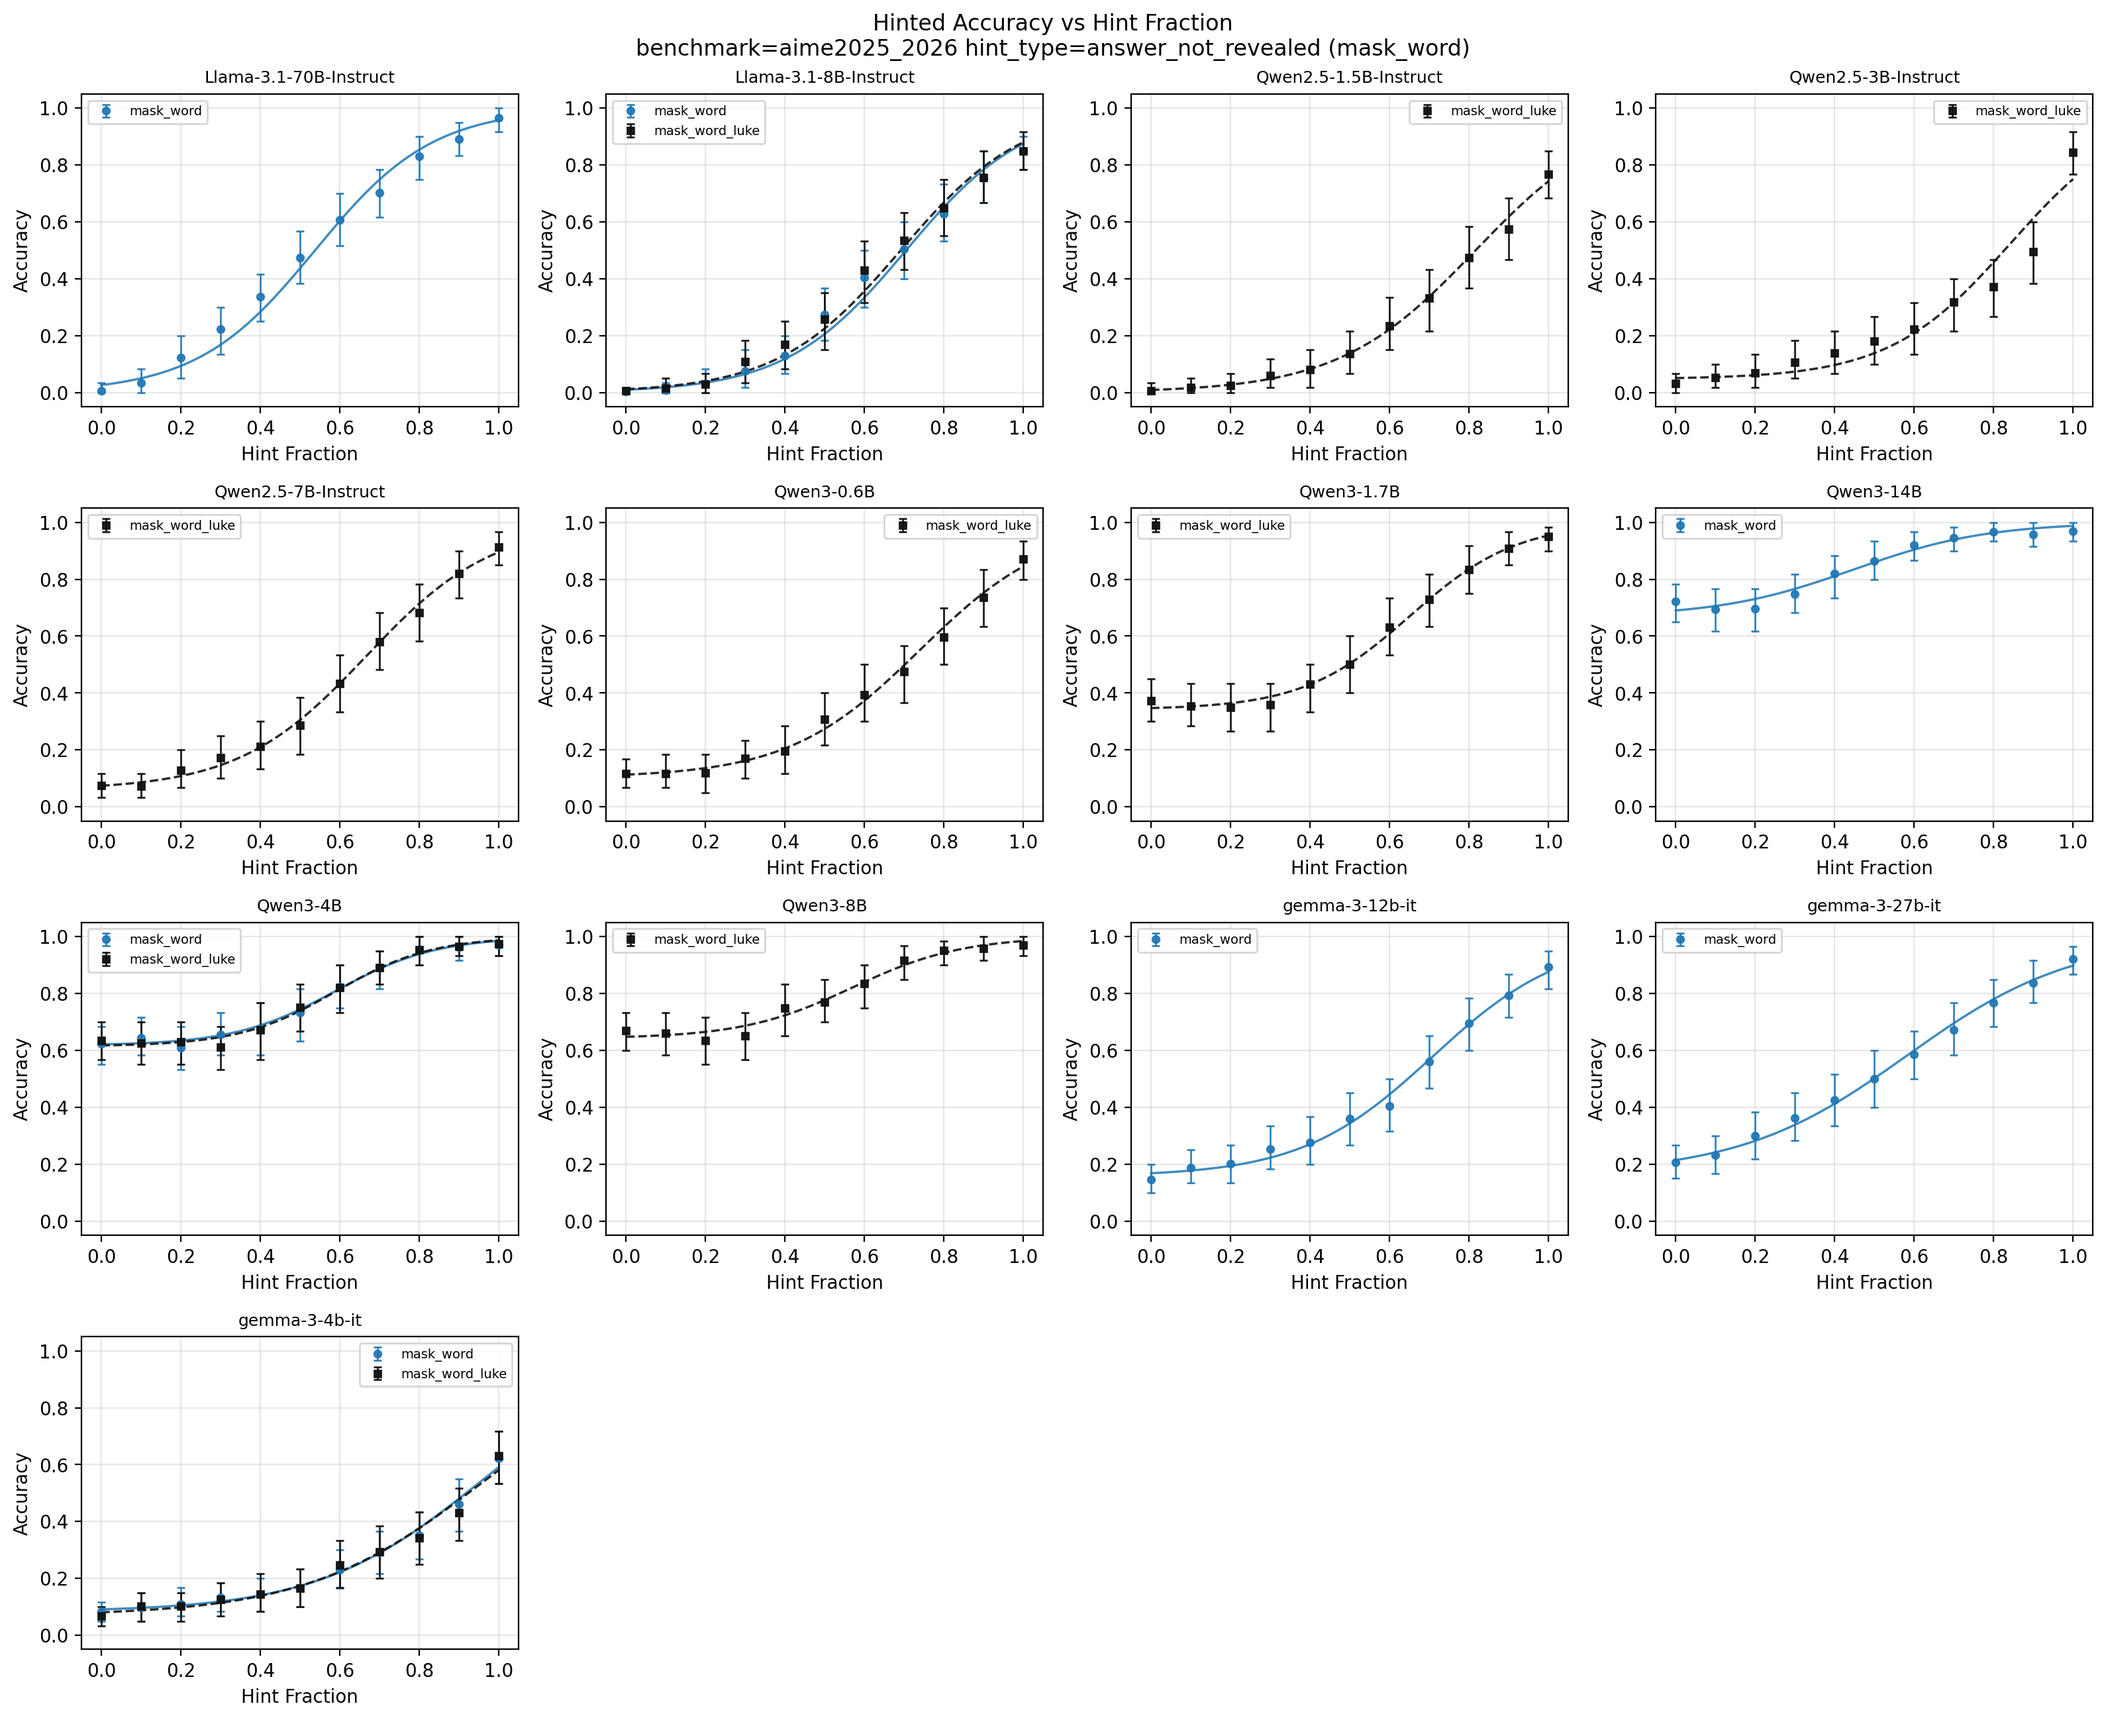
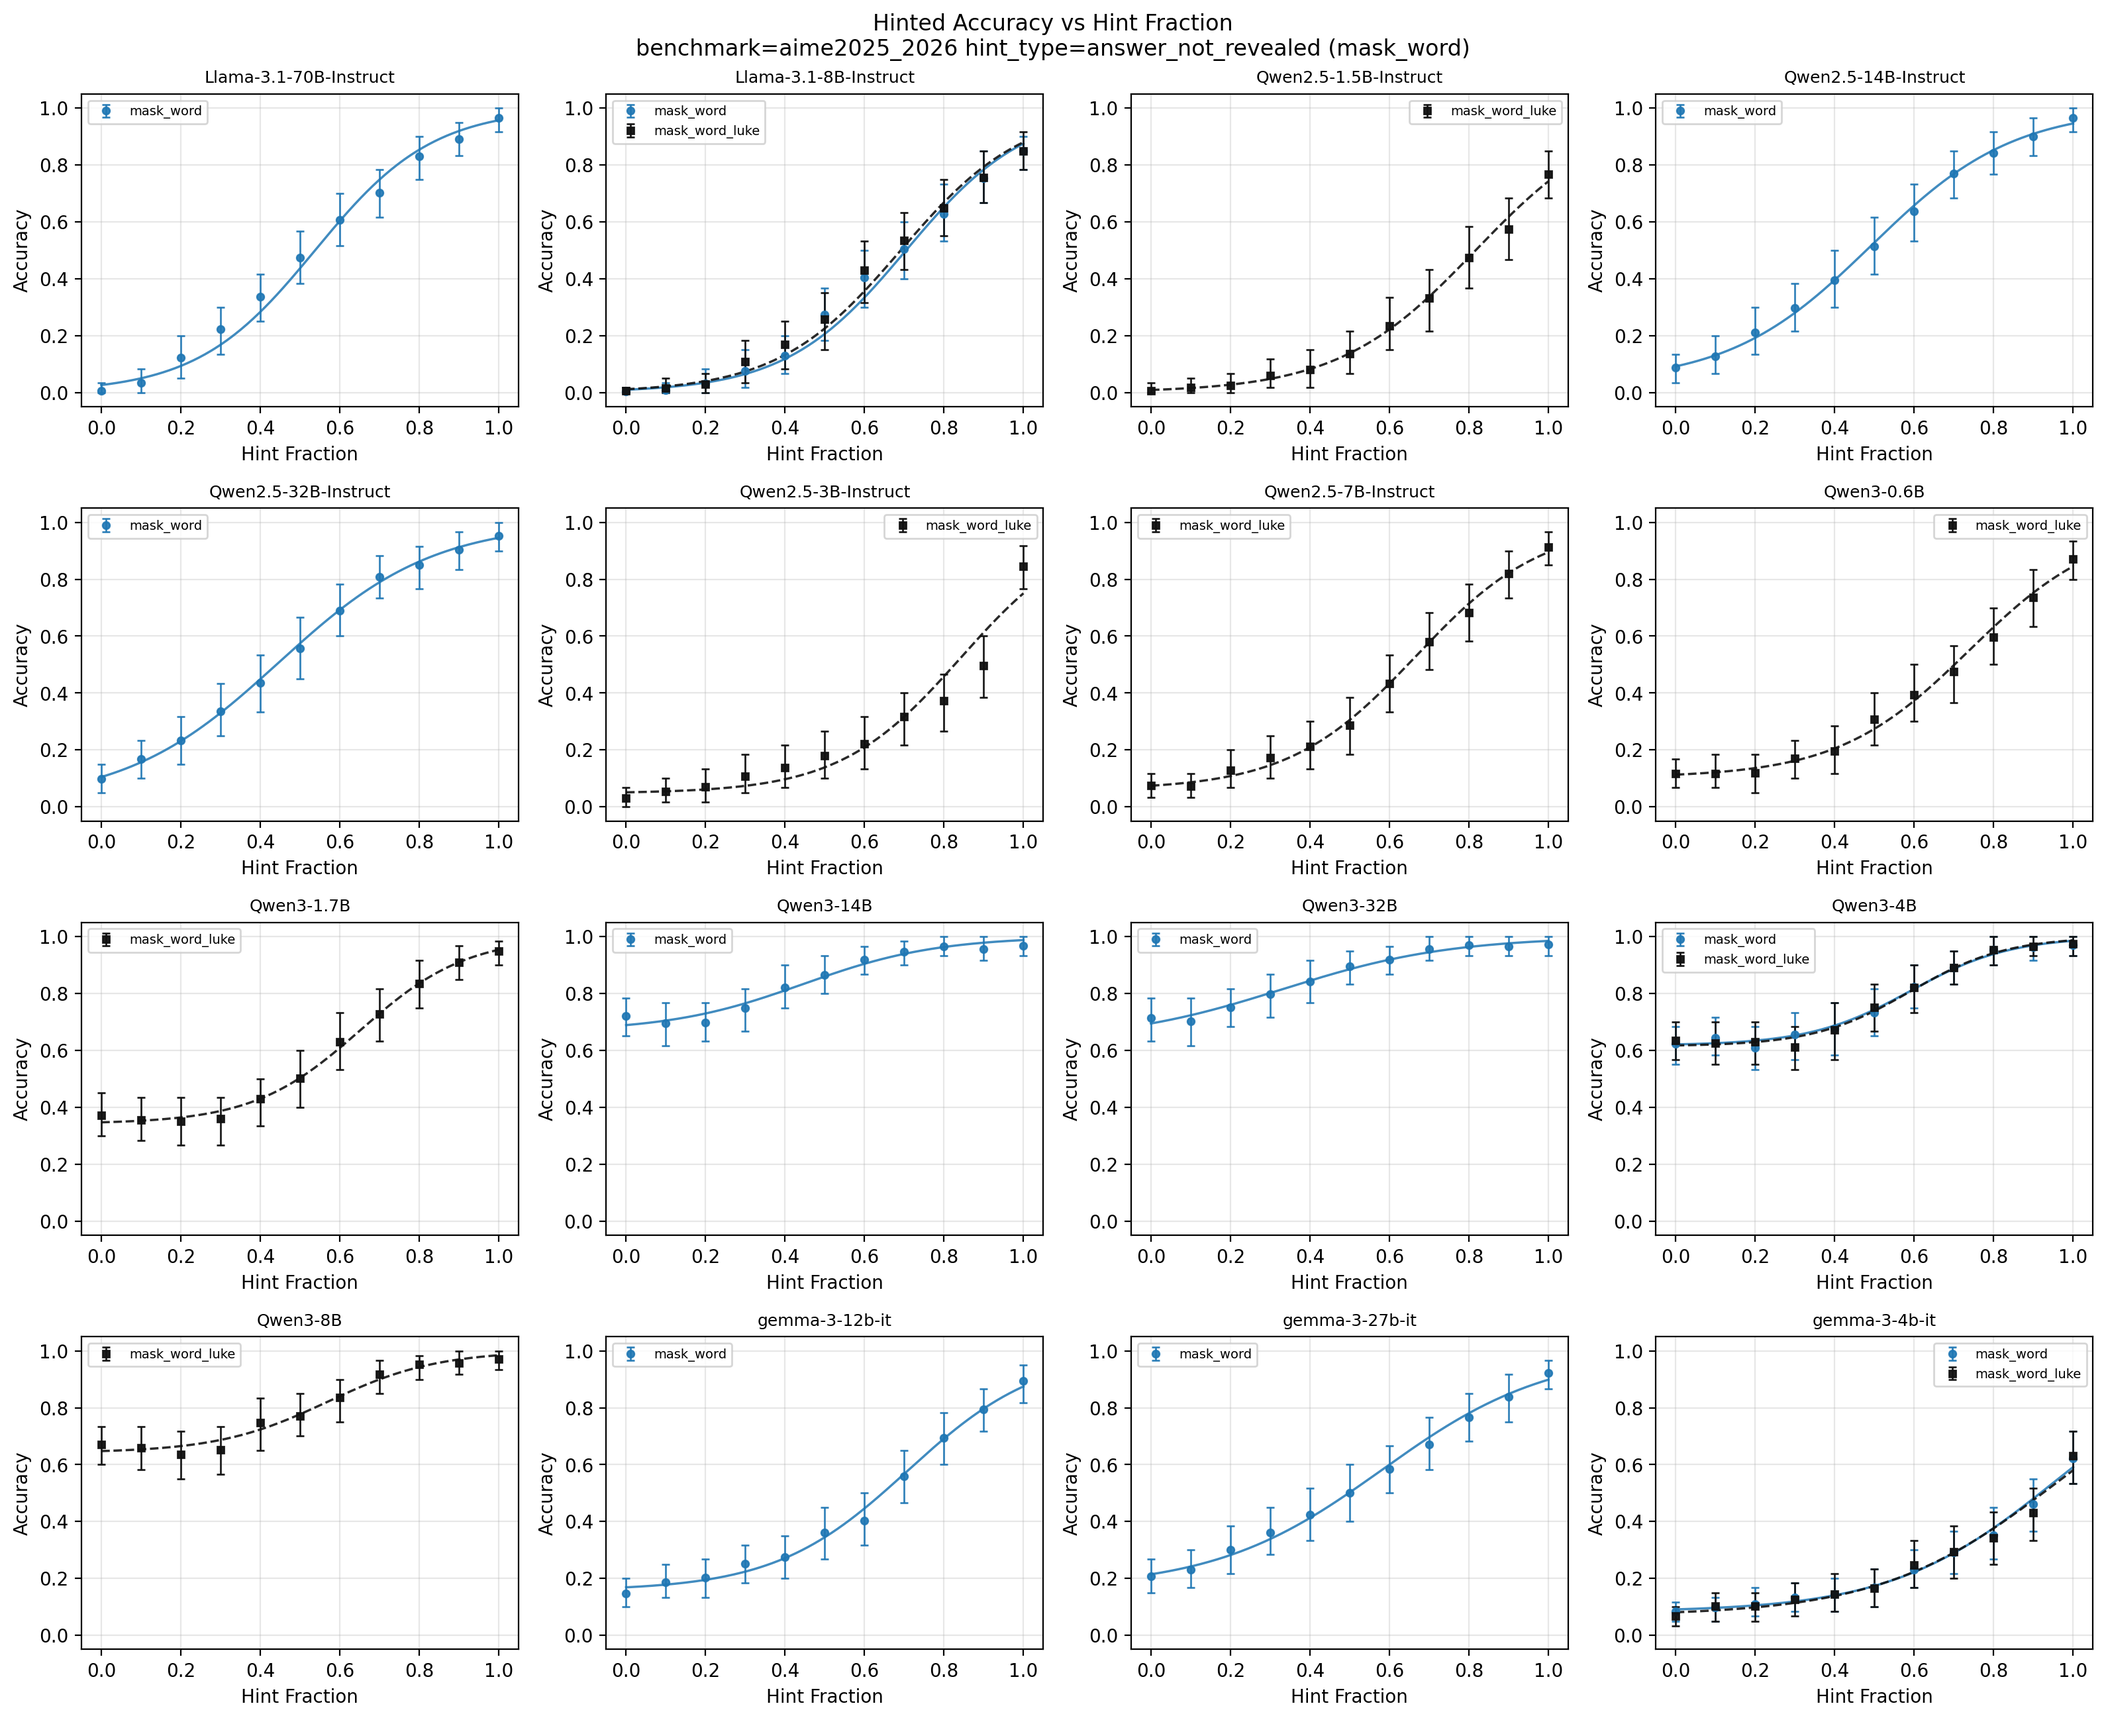
full mask/truncate word results and plots

diff --git a/runs/plot_hinted_accuracy_vs_hint.py b/runs/plot_hinted_accuracy_vs_hint.py
@@ -14,6 +14,12 @@ from scipy.optimize import curve_fit
 DATA_ROOT = Path("data")
 PLOTS_ROOT = Path("plots/accuracy_vs_hint")
 MASK_WORD_RESULTS_WITH_CI_PATH = DATA_ROOT / "results_with_ci_mask_word.json"
+TRUNCATE_WORD_RESULTS_WITH_CI_PATH = DATA_ROOT / "results_with_ci_truncate_word.json"
+EXTERNAL_RESULTS_WITH_CI_PATHS = {
+    "mask_word": MASK_WORD_RESULTS_WITH_CI_PATH,
+    "truncate_word": TRUNCATE_WORD_RESULTS_WITH_CI_PATH,
+}
+
 N_BOOTSTRAP = 5000
 RANDOM_SEED = 0
 EXPECTED_FRACTIONS = [i / 10 for i in range(11)]
@@ -75,16 +81,16 @@ def _discover_models(benchmark: str) -> list[str]:
     return sorted(path.name for path in benchmark_dir.iterdir() if path.is_dir())
 
 
-def _load_external_mask_word_results() -> dict[str, dict[float, dict[str, float]]] | None:
-    if not MASK_WORD_RESULTS_WITH_CI_PATH.exists():
+def _load_external_results_with_ci(
+    path: Path,
+) -> dict[str, dict[float, dict[str, float]]] | None:
+    if not path.exists():
         return None
 
-    with open(MASK_WORD_RESULTS_WITH_CI_PATH, "r", encoding="utf-8") as f:
+    with open(path, "r", encoding="utf-8") as f:
         payload = json.load(f)
     if not isinstance(payload, dict):
-        raise ValueError(
-            f"Expected top-level object in {MASK_WORD_RESULTS_WITH_CI_PATH}, got {type(payload).__name__}"
-        )
+        raise ValueError(f"Expected top-level object in {path}, got {type(payload).__name__}")
 
     out: dict[str, dict[float, dict[str, float]]] = {}
     for model, model_payload in payload.items():
@@ -501,8 +507,18 @@ def _plot(
 def main() -> None:
     args = _parse_args()
     models_available = _discover_models(args.benchmark)
-    external_mask_word = _load_external_mask_word_results()
-    external_models_available = sorted(external_mask_word.keys()) if external_mask_word else []
+    external_results_by_fractioner = {
+        fractioner: _load_external_results_with_ci(path)
+        for fractioner, path in EXTERNAL_RESULTS_WITH_CI_PATHS.items()
+    }
+    external_models_available = sorted(
+        {
+            model
+            for payload in external_results_by_fractioner.values()
+            if payload
+            for model in payload.keys()
+        }
+    )
     if not models_available and not external_models_available:
         raise ValueError(f"No models found for benchmark={args.benchmark!r}.")
 
@@ -619,16 +635,22 @@ def main() -> None:
                 f"fractioner={fractioner} {means_text}"
             )
 
-    if args.fractioner == "mask_word" and external_mask_word:
+    external_fractioner_payload = (
+        external_results_by_fractioner.get(args.fractioner) if args.fractioner is not None else None
+    )
+    external_fractioner_path = (
+        EXTERNAL_RESULTS_WITH_CI_PATHS.get(args.fractioner) if args.fractioner is not None else None
+    )
+    if args.fractioner is not None and external_fractioner_payload and external_fractioner_path:
         for model in models_to_plot:
-            model_payload = external_mask_word.get(model)
+            model_payload = external_fractioner_payload.get(model)
             if not model_payload:
                 continue
             missing = sorted(expected_fraction_set - set(model_payload.keys()))
             if missing:
                 print(
-                    f"[plot_hinted_accuracy_vs_hint][WARN] external mask_word data missing "
-                    f"fractions model={model} missing_fractions={missing}"
+                    f"[plot_hinted_accuracy_vs_hint][WARN] external {args.fractioner} data "
+                    f"missing fractions model={model} missing_fractions={missing}"
                 )
                 continue
 
@@ -638,7 +660,7 @@ def main() -> None:
                 fraction_rows.append(
                     {
                         "model": model,
-                        "fractioner": "mask_word",
+                        "fractioner": args.fractioner,
                         "hint_fraction": float(hint_fraction),
                         "accuracy": float(stats["accuracy"]),
                         "ci_low": float(stats["ci_low"]),
@@ -648,8 +670,8 @@ def main() -> None:
                         "rows_total": 0,
                         "rows_with_known_label": 0,
                         "rows_without_known_label": 0,
-                        "path": str(MASK_WORD_RESULTS_WITH_CI_PATH),
-                        "source": "external_mask_word",
+                        "path": str(external_fractioner_path),
+                        "source": f"external_{args.fractioner}",
                     }
                 )
             external_rows.extend(fraction_rows)
@@ -659,7 +681,7 @@ def main() -> None:
             )
             print(
                 f"[plot_hinted_accuracy_vs_hint] external means model={model} "
-                f"fractioner=mask_word {means_text}"
+                f"fractioner={args.fractioner} {means_text}"
             )
 
     if not rows and not external_rows:
@@ -765,4 +787,5 @@ def main() -> None:
 if __name__ == "__main__":
     # python -m runs.plot_hinted_accuracy_vs_hint --benchmark aime2025_2026 --hint-type answer_not_revealed
     # python -m runs.plot_hinted_accuracy_vs_hint --benchmark aime2025_2026 --hint-type answer_not_revealed --fractioner mask_word
+    # python -m runs.plot_hinted_accuracy_vs_hint --benchmark aime2025_2026 --hint-type answer_not_revealed --fractioner truncate_word
     main()
